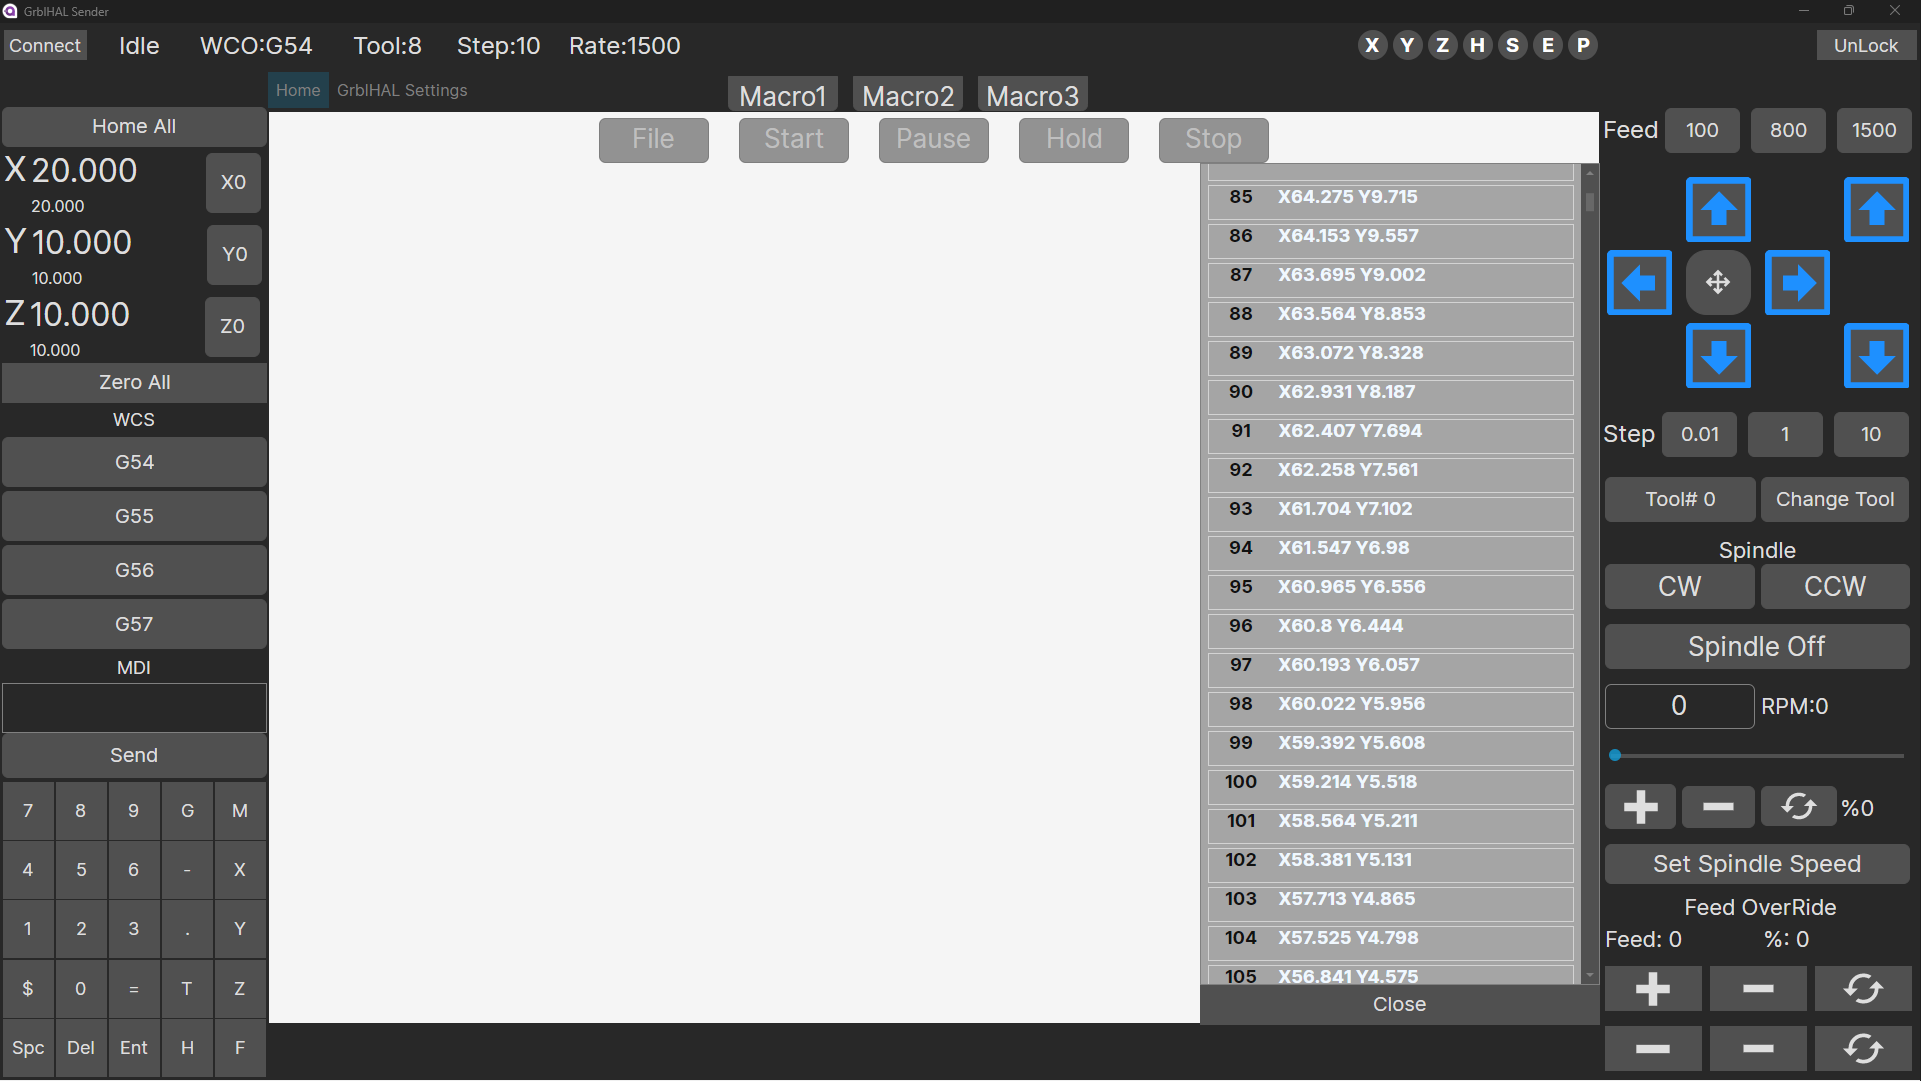
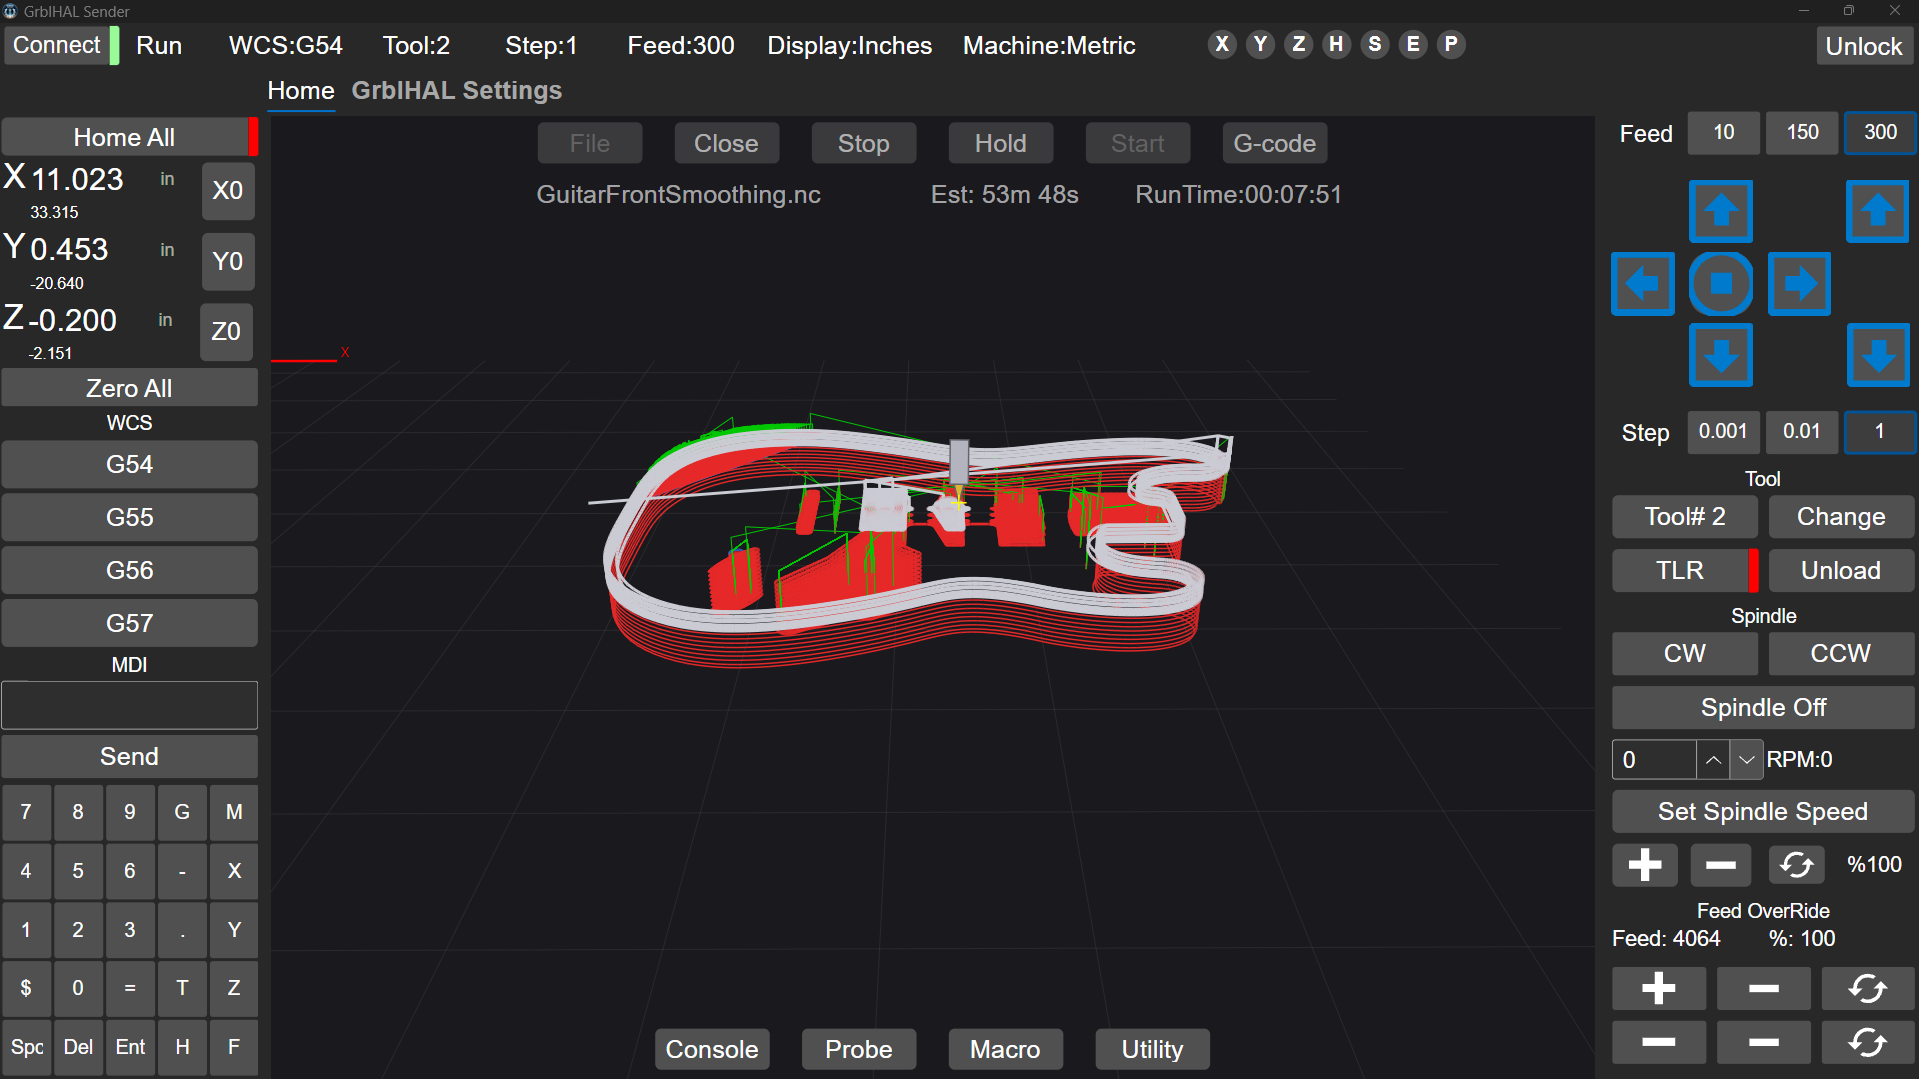
screen shots for welcome md

diff --git a/Media/Welcome.md b/Media/Welcome.md
@@ -1,0 +1,22 @@
+# Project is back Active
+
+## GrblHal Sender a cross platform sender application  for grblHAL
+
+Goal was to create a application that will run on a cheap mini PC with a UI design that is touch monitor friendly, and will not require a mouse or keyboard to use.
+</br>
+---
+
+![Home Screen](media/HomeScreen.png)
+
+Double clicking Text Fields in Utility -> Macro tab brings up virtual keyboard
+![Utility](media/Utility_macro.png)
+
+
+Controller  Layout Front
+![Wireless Controller](media/GameControllerFront.jpg)
+
+Controller Layout Front
+![Wireless Controller](media/GamePadBack.jpg)
+
+### Priority issues and work V1.0.1
+
